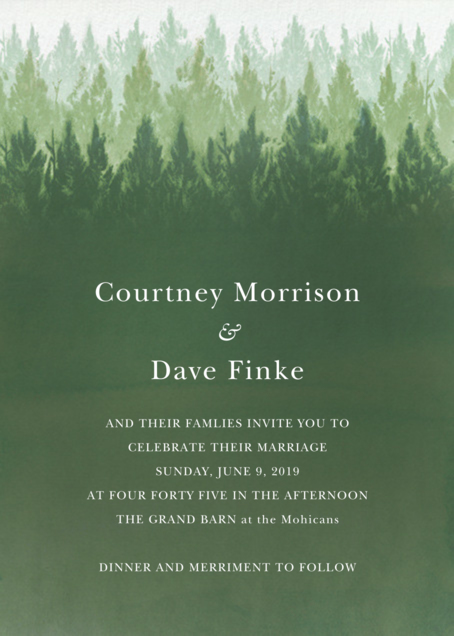
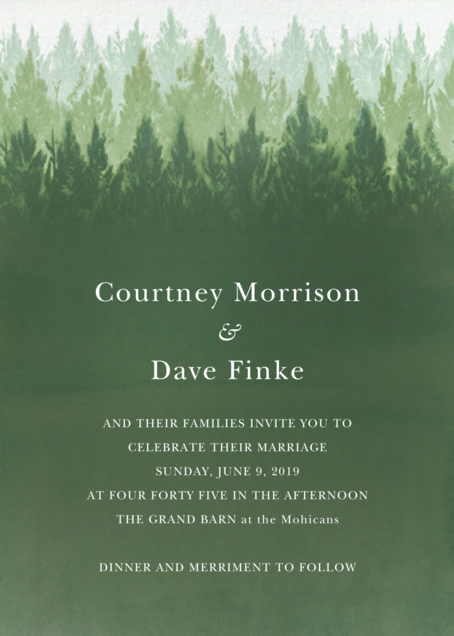
Fixing two last misspellings

Changed region(s): [[0.2159, 0.6572, 0.7709, 0.6871]]

diff --git a/wedding/templates/wedding/invitation.html b/wedding/templates/wedding/invitation.html
@@ -340,7 +340,7 @@
 
             <div class="card-slide">
                 <img src="/static/invitation/images/card_shadow.png" height="560px" style="float: left; "/>
-                <img width="400px" src="/static/invitation/images/first_page.jpg?v=1"/>
+                <img width="400px" src="/static/invitation/images/first_page.jpg?v=2"/>
             </div>
 
             <div class="card-slide">

diff --git a/wedding/templates/wedding/invitation_email.html b/wedding/templates/wedding/invitation_email.html
@@ -57,7 +57,7 @@
                 <br />&amp;
                 <br />Dave Finke</p>
 
-                <p>AND THEIR FAMLIES INVITE YOU TO
+                <p>AND THEIR FAMILIES INVITE YOU TO
                     <br />CELEBRATE THEIR MARRIAGE
                     <br />SUNDAY, JUNE 9, 2019
                     <br />AT FOUR FORTY FIVE IN THE AFTERNOON
